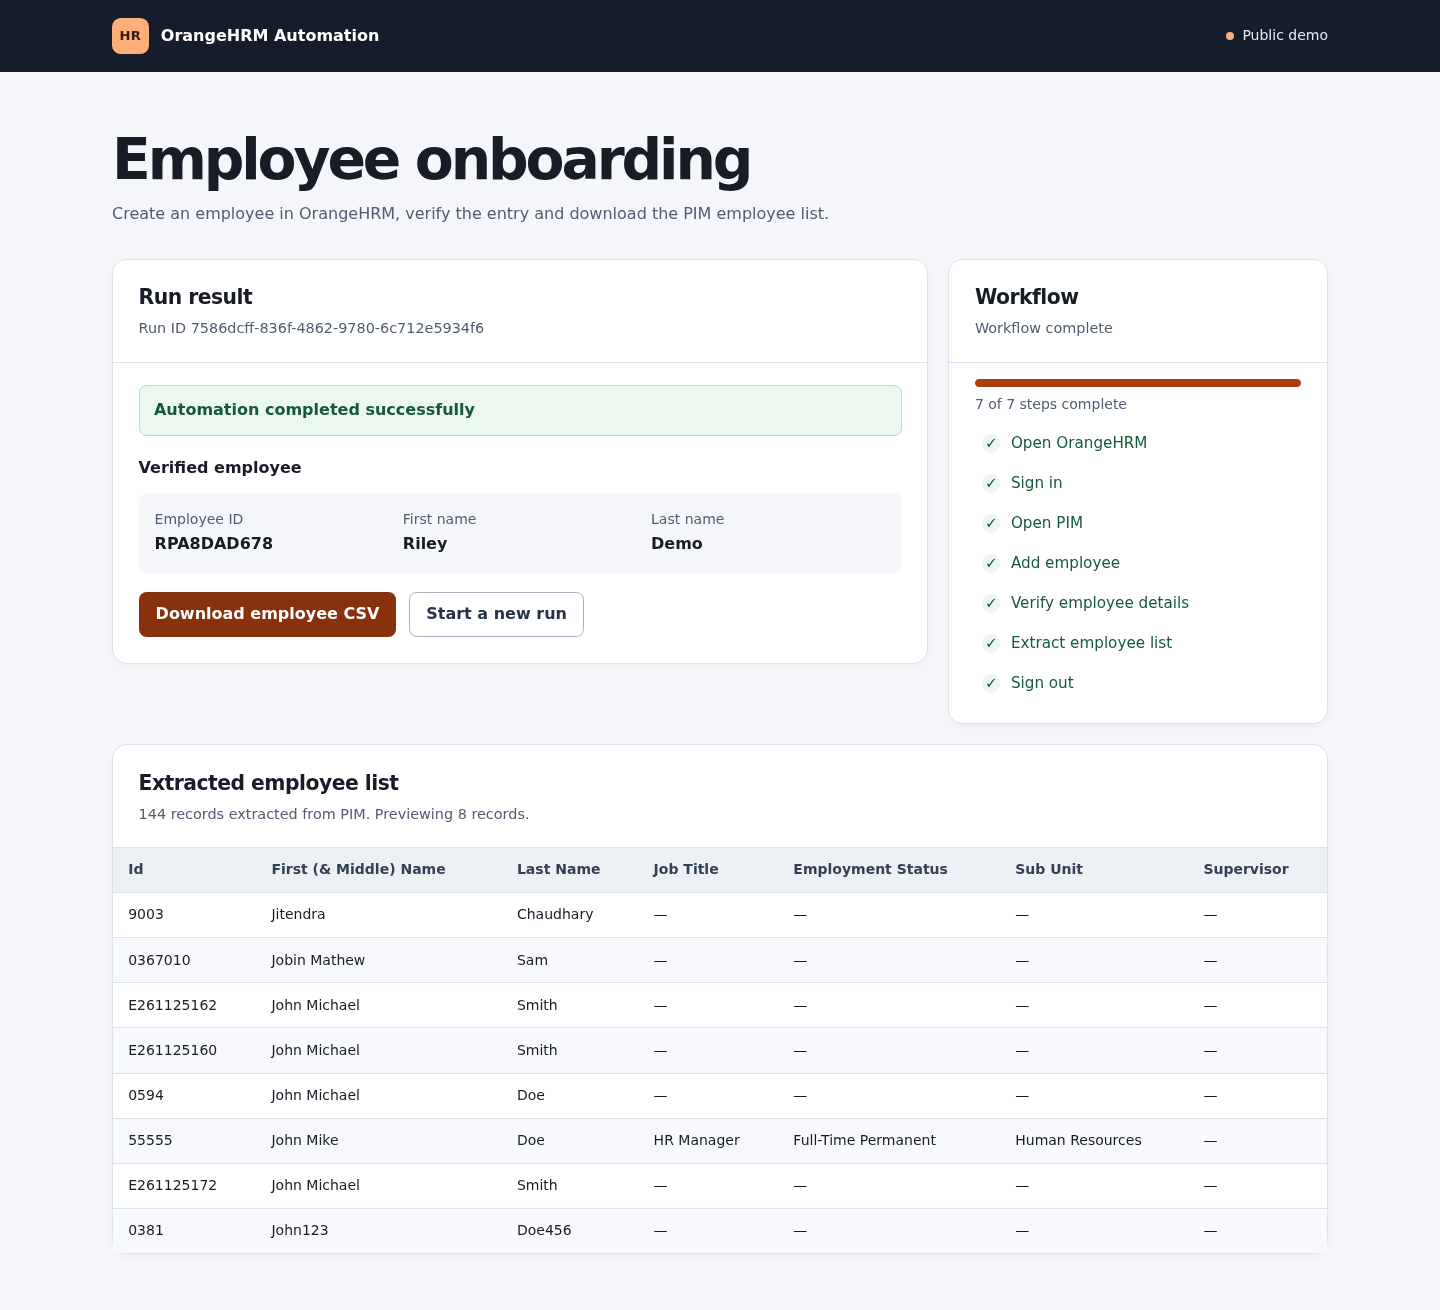
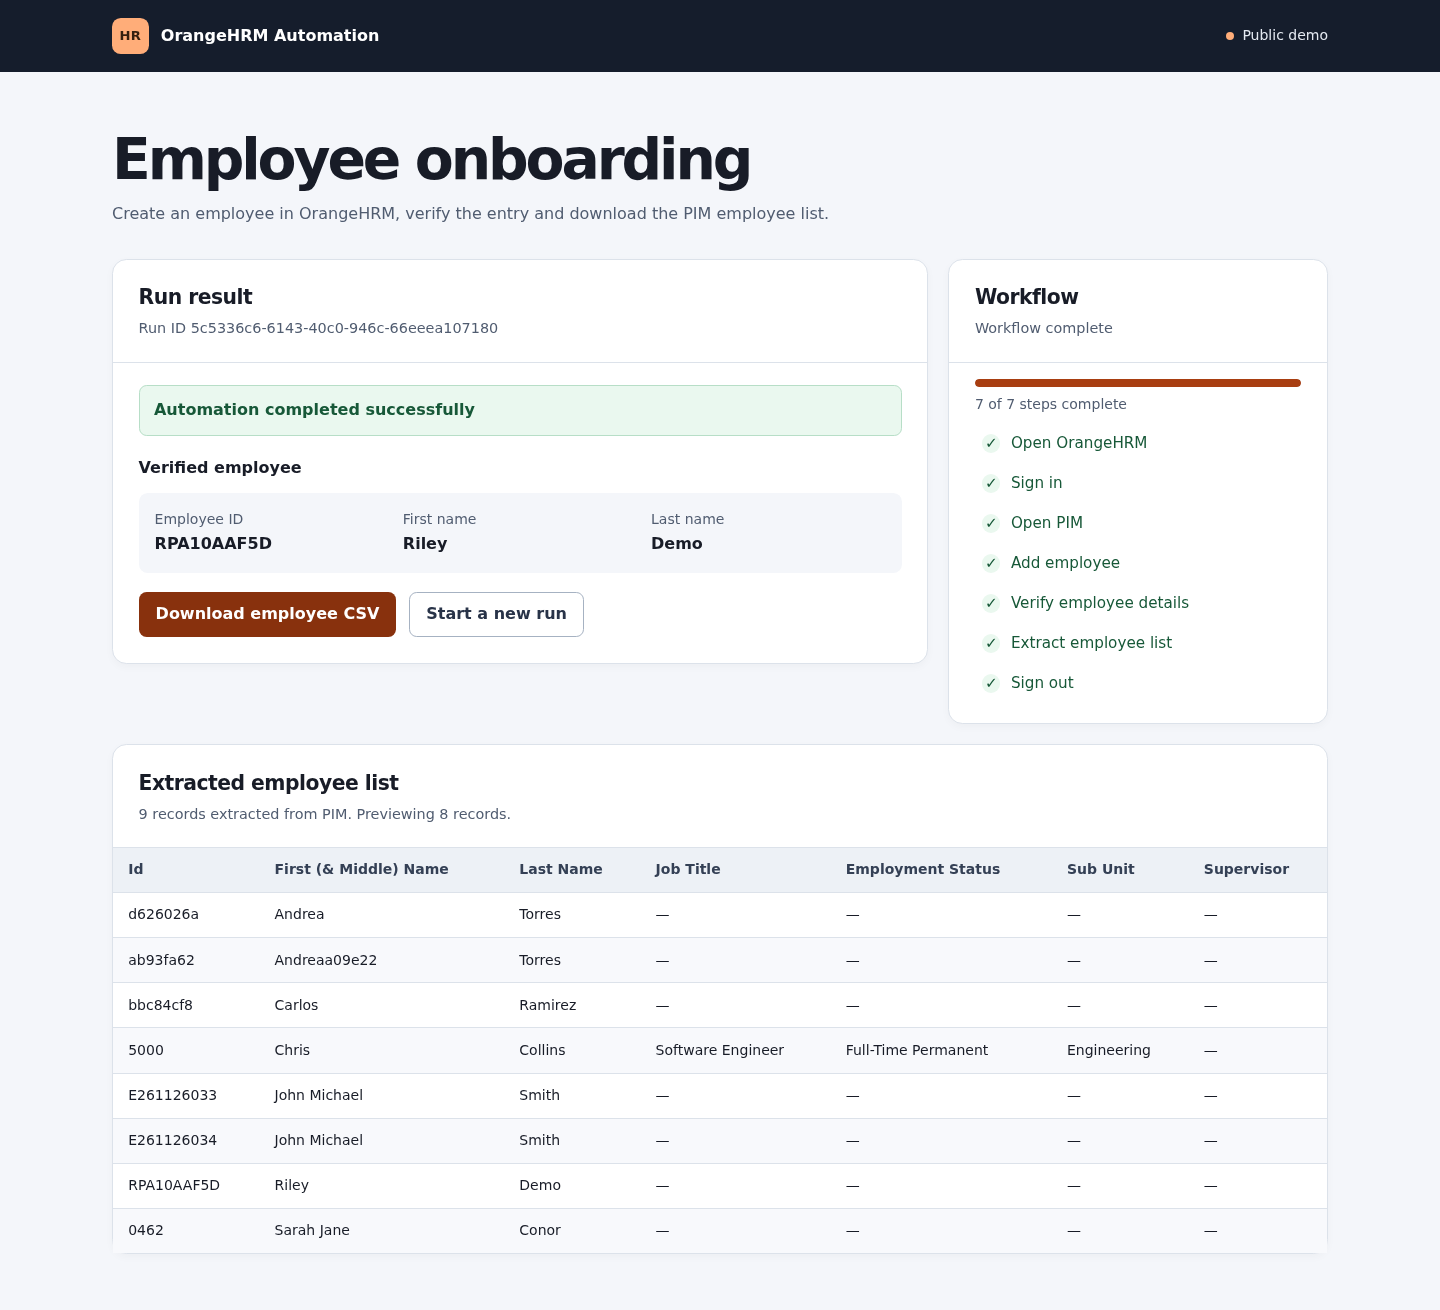
fix: resolve signup issue

diff --git a/app/automation.py b/app/automation.py
@@ -1,19 +1,39 @@
 import logging
 import re
 from typing import Callable
-from urllib.parse import urlsplit
+from urllib.parse import parse_qsl, urlencode, urlsplit
 
-from playwright.sync_api import Browser, Page, Playwright, expect, sync_playwright
+from playwright.sync_api import (
+    Browser,
+    Page,
+    Playwright,
+    Route,
+    expect,
+    sync_playwright,
+)
 from playwright.sync_api import Error as PlaywrightError
+from playwright.sync_api import TimeoutError as PlaywrightTimeoutError
 
 from .config import DEMO_URL, Settings
 from .models import Employee, ProgressCallback, RunInput, RunResult, WorkflowProgress
 
 LOGGER = logging.getLogger("uvicorn.error.orangehrm")
 PROFILE_URL = re.compile(r"/pim/viewPersonalDetails/empNumber/\d+(?:[/?#]|$)")
+EMPLOYEE_LIST_URL = re.compile(r"/pim/viewEmployeeList(?:[/?#]|$)")
 RECORDS_FOUND = re.compile(r"^\((\d+)\) Records? Found$")
 EMPLOYEE_COLUMNS = ("Id", "First (& Middle) Name", "Last Name")
 EXPORT_ATTEMPTS = 3
+TRANSLATIONS_URL = re.compile(
+    rf"^{re.escape(DEMO_URL)}/web/index\.php/core/i18n/messages(?:\?|$)"
+)
+
+
+def request_english_ui(route: Route) -> None:
+    """Use OrangeHRM's locale parameter for this browser's UI labels."""
+    url = urlsplit(route.request.url)
+    query = dict(parse_qsl(url.query, keep_blank_values=True))
+    query["locale"] = "en_US"
+    route.continue_(url=url._replace(query=urlencode(query)).geturl())
 
 
 class WorkflowError(Exception):
@@ -39,7 +59,8 @@ class OrangeHrmPage:
         self.page = page
         self.timeout_ms = timeout_ms
         page.set_default_timeout(timeout_ms)
-        self.pim = page.get_by_role("link", name="PIM", exact=True)
+        page.route(TRANSLATIONS_URL, request_english_ui)
+        self.pim = page.locator('a[href$="/pim/viewPimModule"]')
         self.user_menu = page.locator(".oxd-userdropdown-tab")
         self.username = page.locator('input[name="username"]')
         self.first_name = page.locator('input[name="firstName"]')
@@ -60,11 +81,23 @@ class OrangeHrmPage:
         self.username.wait_for()
 
     def login(self, request: RunInput) -> None:
-        self.username.fill(request.username)
-        self.page.locator('input[name="password"]').fill(request.password)
-        self.page.get_by_role("button", name="Login", exact=True).click()
-        error = self.page.locator(".oxd-alert-content-text")
-        self.pim.or_(error).first.wait_for()
+        pending = "preparing the login form"
+        form = self.page.locator("form").filter(has=self.username)
+        error = self.page.locator(".oxd-alert-content-text").filter(visible=True)
+        signed_in = self.user_menu.or_(self.pim).filter(visible=True)
+        try:
+            self.username.fill(request.username)
+            self.page.locator('input[name="password"]').fill(request.password)
+            pending = "submitting the login form"
+            form.locator('button[type="submit"]').click(no_wait_after=True)
+            pending = "waiting for the sign-in response"
+            # Give the post-login redirect and UI render time to finish after one click.
+            signed_in.or_(error).first.wait_for(timeout=self.timeout_ms * 2)
+        except PlaywrightTimeoutError as exc:
+            LOGGER.warning("OrangeHRM timed out while %s", pending)
+            raise WorkflowError(
+                "OrangeHRM took too long to respond during sign-in. Try again."
+            ) from exc
         if error.is_visible():
             raise LoginRejected(
                 "Invalid username or password, Please check your credentials "
@@ -72,8 +105,13 @@ class OrangeHrmPage:
             )
 
     def open_pim(self) -> None:
-        self.pim.click()
-        self.page.get_by_role("link", name="Employee List", exact=True).wait_for()
+        try:
+            self.pim.click(no_wait_after=True)
+            self.page.wait_for_url(EMPLOYEE_LIST_URL, wait_until="commit")
+        except PlaywrightTimeoutError as exc:
+            raise WorkflowError(
+                "OrangeHRM did not open the PIM employee list in time. Try again."
+            ) from exc
 
     def add_employee(self, employee: Employee) -> None:
         self.page.get_by_role("link", name="Add Employee", exact=True).click()

diff --git a/tests/test_automation.py b/tests/test_automation.py
@@ -3,14 +3,68 @@
 import unittest
 from unittest.mock import Mock, patch
 
+from playwright.sync_api import TimeoutError as PlaywrightTimeoutError
+
 from app.automation import (
+    EMPLOYEE_LIST_URL,
     DuplicateEmployeeId,
     EmployeeListChanged,
     OrangeHrmPage,
+    WorkflowError,
+    request_english_ui,
     run_automation,
 )
 from app.config import Settings
 from app.models import Employee, RunInput
+
+
+class SignInTests(unittest.TestCase):
+    def test_browser_requests_english_without_losing_other_parameters(self) -> None:
+        route = Mock()
+        base_url = "https://opensource-demo.orangehrmlive.com/web/index.php"
+        route.request.url = f"{base_url}/core/i18n/messages?locale=fr_FR&version=1"
+        request_english_ui(route)
+        route.continue_.assert_called_once_with(
+            url=f"{base_url}/core/i18n/messages?locale=en_US&version=1"
+        )
+
+    def test_slow_sign_in_submits_once_and_waits_for_a_visible_outcome(self) -> None:
+        page = Mock()
+        site = OrangeHrmPage(page, timeout_ms=20_000)
+        outcome = site.user_menu.or_.return_value.filter.return_value.or_.return_value
+        outcome.first.wait_for.side_effect = PlaywrightTimeoutError("Timed out")
+        request = RunInput("user", "test-password", Employee("Riley", "Demo", "9001"))
+
+        with (
+            self.assertLogs("uvicorn.error.orangehrm") as logs,
+            self.assertRaisesRegex(WorkflowError, "took too long to respond"),
+        ):
+            site.login(request)
+
+        page.locator.return_value.filter.return_value.locator.assert_called_once_with(
+            'button[type="submit"]'
+        )
+        submit = page.locator.return_value.filter.return_value.locator.return_value
+        submit.click.assert_called_once_with(no_wait_after=True)
+        outcome.first.wait_for.assert_called_once_with(timeout=40_000)
+        self.assertIn("waiting for the sign-in response", logs.output[0])
+        self.assertNotIn("test-password", logs.output[0])
+
+
+class PimNavigationTests(unittest.TestCase):
+    def test_pim_navigation_uses_the_link_destination_instead_of_its_label(
+        self,
+    ) -> None:
+        page = Mock()
+        site = OrangeHrmPage(page, timeout_ms=20_000)
+
+        site.open_pim()
+
+        page.locator.assert_any_call('a[href$="/pim/viewPimModule"]')
+        site.pim.click.assert_called_once_with(no_wait_after=True)
+        page.wait_for_url.assert_called_once_with(
+            EMPLOYEE_LIST_URL, wait_until="commit"
+        )
 
 
 class ExportRecoveryTests(unittest.TestCase):

diff --git a/tests/test_dashboard.py b/tests/test_dashboard.py
@@ -62,6 +62,14 @@ class DashboardTests(unittest.IsolatedAsyncioTestCase):
                 export_only=request.export_only,
                 login_rejected=True,
             )
+        if request.password == "timeout-password":
+            return RunResult(
+                steps=["Open OrangeHRM"],
+                errors=[
+                    "OrangeHRM took too long to respond during sign-in. Try again."
+                ],
+                failed_step="Sign in",
+            )
         if request.employee.employee_id == "FAIL":
             return RunResult(
                 steps=["Open OrangeHRM", "Sign in", "Open PIM"],
@@ -188,6 +196,17 @@ class DashboardTests(unittest.IsolatedAsyncioTestCase):
         page = await self.client.post("/runs", data={**self.fields, "csrf": "é"})
         self.assertEqual(page.status_code, 403)
         self.assertEqual(self.calls, [])
+
+    async def test_sign_in_timeout_keeps_form_with_a_timing_message(self) -> None:
+        page = await self.client.post(
+            "/runs", data={**self.fields, "password": "timeout-password"}
+        )
+        self.assertEqual(page.status_code, 422)
+        self.assertIn("OrangeHRM took too long to respond during sign-in.", page.text)
+        self.assertNotIn("Invalid username or password", page.text)
+        self.assertNotIn("timeout-password", page.text)
+        self.assertIn('aria-describedby="login-alert" autofocus', page.text)
+        self.assertIn('class="failed">Sign in', page.text)
 
     async def test_oversized_form_rejected_before_automation(self) -> None:
         page = await self.client.post(

diff --git a/tests/live_dashboard.py b/tests/live_dashboard.py
@@ -47,12 +47,17 @@ def main() -> None:
 
         page.get_by_role("button", name="Run automation").click(no_wait_after=True)
         result = page.locator(".result-body")
-        result.wait_for(timeout=360_000)
-        if result.get_by_role("alert").count():
+        inline_error = page.locator(".form-alert")
+        result.or_(inline_error).first.wait_for(timeout=360_000)
+        if inline_error.is_visible() or result.get_by_role("alert").count():
             page.screenshot(
                 path=options.output / "dashboard-failure.png", full_page=True
             )
-            raise RuntimeError(result.inner_text())
+            raise RuntimeError(
+                inline_error.inner_text()
+                if inline_error.is_visible()
+                else result.inner_text()
+            )
         expect(result.get_by_role("status")).to_have_text(
             "Automation completed successfully"
         )

diff --git a/app/main.py b/app/main.py
@@ -186,12 +186,13 @@ def create_app(
                 message="An automation is running. Try again after it finishes.",
                 **context,
             )
-        if result.login_rejected or result.duplicate_employee_id:
+        sign_in_failed = result.failed_step == "Sign in"
+        if sign_in_failed or result.duplicate_employee_id:
             return dashboard(
                 request,
                 422,
                 values=values,
-                login_error=result.errors[0] if result.login_rejected else None,
+                login_error=result.errors[0] if sign_in_failed else None,
                 employee_id_error=(
                     "Use a unique ID and try again."
                     if result.duplicate_employee_id

diff --git a/README.md b/README.md
@@ -25,6 +25,8 @@ The dashboard can use an existing Google Chrome installation. To install the Pla
 python -m uvicorn app.main:app --host 127.0.0.1 --port 8000
 ```
 
+Add `--no-access-log` to hide the frequent progress-request lines in the terminal. The automation still logs its steps, warnings, and errors.
+
 1. Open [the local dashboard](http://127.0.0.1:8000).
 2. Enter the demo username and password from the assignment PDF. Use fictional names and an unused employee ID of up to 10 characters.
 3. Click **Run automation** and keep the tab open. The **Workflow** panel shows the active browser step and the number of steps completed. If PIM changes during extraction, the panel shows when the export is retrying.
@@ -43,7 +45,7 @@ set +a
 
 | Setting | Default | Purpose |
 | --- | --- | --- |
-| `ORANGEHRM_TIMEOUT_MS` | `20000` | Per-operation browser timeout in milliseconds. Accepts 1000–120000. |
+| `ORANGEHRM_TIMEOUT_MS` | `20000` | Base browser timeout in milliseconds. Accepts 1000–120000. Sign-in confirmation can take up to twice this time. |
 | `ORANGEHRM_HEADLESS` | `true` | Set to `false` to watch the OrangeHRM browser locally. |
 | `ORANGEHRM_BROWSER_CHANNEL` | Automatic | Tries Playwright Chromium, then installed Google Chrome if Chromium is missing. Set to `chrome` to select Google Chrome directly. |
 
@@ -97,7 +99,7 @@ README.md
 ## Implementation decisions
 
 - **Browser lifecycle.** Playwright runs in a thread so FastAPI can serve the dashboard during a run. Every run has a fresh browser context. After signing in, the workflow attempts sign-out even if a later step fails. The context and browser close in cleanup blocks.
-- **Readiness and verification.** Actions wait on UI elements and page transitions. After Save, the workflow reads the profile’s three fields and checks them against the request. It then reads rendered PIM columns and pages, checks the displayed total, and verifies that the new employee is present in the extraction.
+- **Readiness and verification.** Actions wait on UI elements and page transitions. The browser requests English UI labels so the shared demo's default language can vary. After Save, the workflow reads the profile’s three fields and checks them against the request. It then reads rendered PIM columns and pages, checks the displayed total, and verifies that the new employee is present in the extraction.
 - **Run state.** A single server process allows one active run at a time. The POST redirects to a result URL so refreshing cannot resubmit the form. The browser’s random cookie scopes access to the run and its CSV. Result snapshots under `runtime/runs/` are written atomically.
 - **Data handling.** The submitted credentials are used in memory for sign-in. Snapshots, CSVs, URLs, and application step logs omit them. HTML output is escaped and CSV cells that start like spreadsheet formulas are neutralized. The target URL is fixed in code.
 
